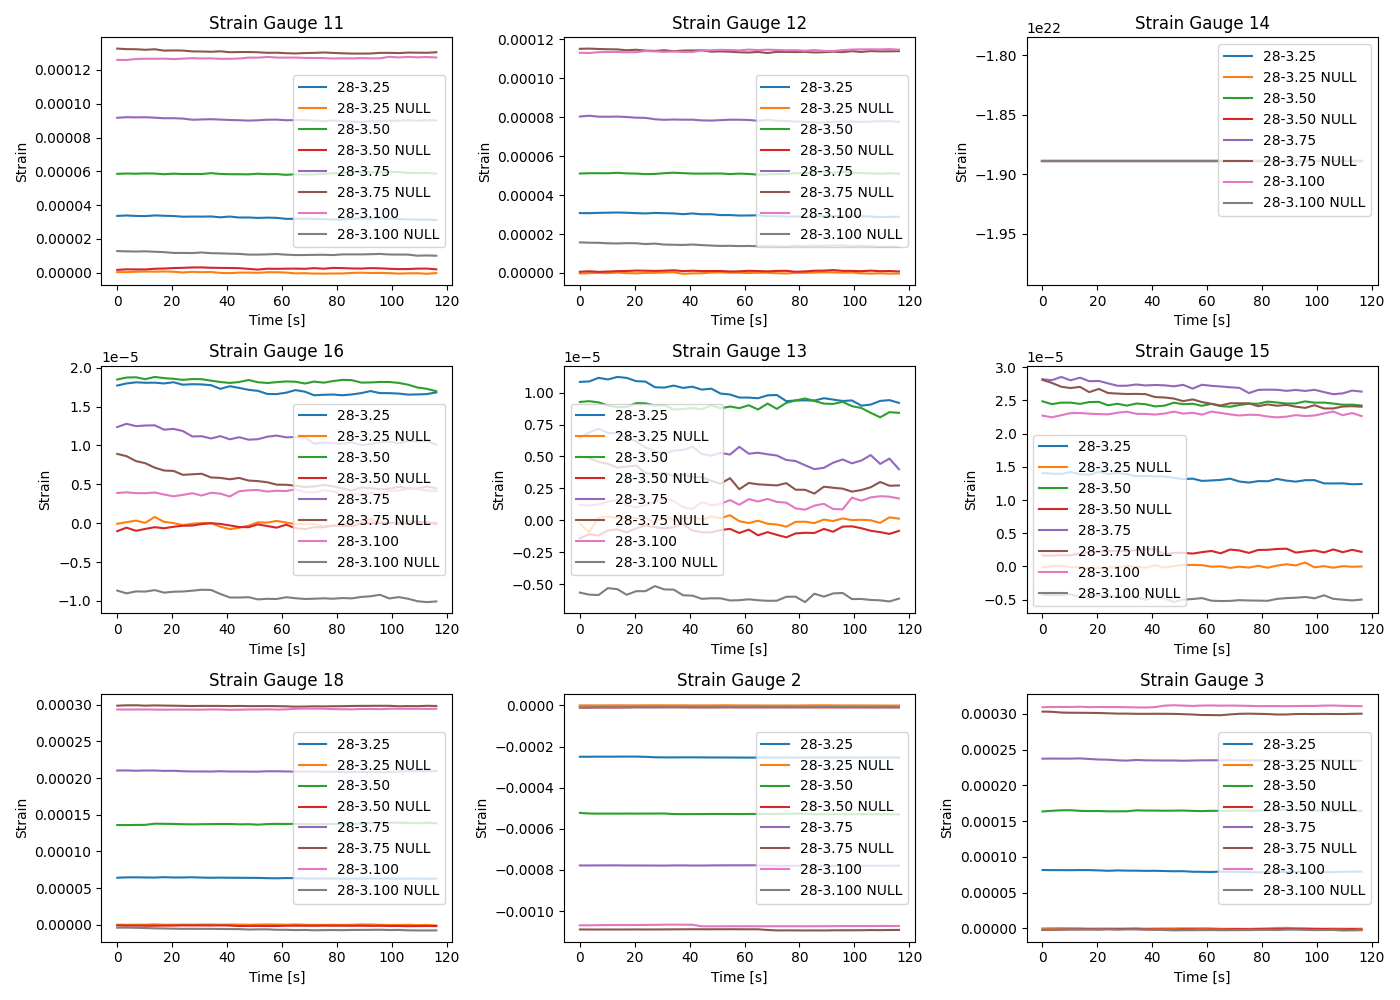
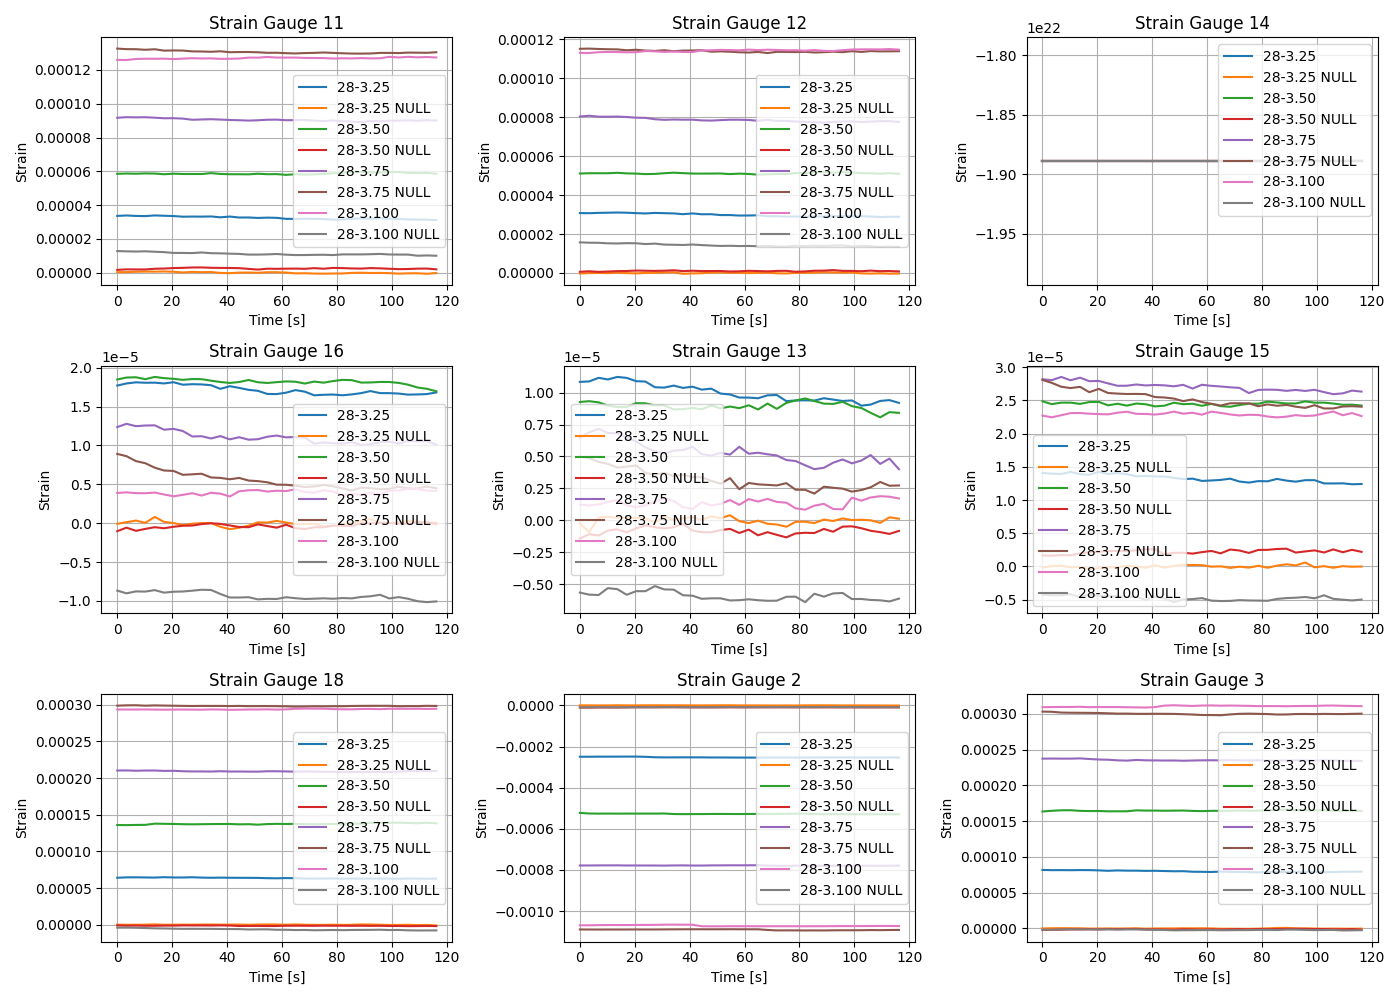
Better plots

diff --git a/AnalyseStrain.py b/AnalyseStrain.py
@@ -35,7 +35,6 @@ def calculateStrain(dataset: dict, test: str):
         measuredStrainData[key] = measuredStrain
     # Correct for initial offset which is the strains in the null test
     realStrainData = {}
-    print(measuredStrainData.keys())
     #nullstrains is the first entry in measuredStrainData with 'NULL' in the key
     nullStrains = measuredStrainData[[key for key in measuredStrainData.keys() if 'NULL' in key][0]]
         
@@ -84,6 +83,9 @@ def makeScatterPlotData(dataset: dict, test: str):
                     ax.set_ylabel("Strain")
                     
                 idx += 1
+                #add grid
+                ax.grid(True)
+
                 plt.tight_layout()
     #add temperature plots
         plt.savefig(f"Strain_Gauge_Plots_Test_{list(dataset.keys())[0]}_{fignum}.png")
@@ -96,6 +98,7 @@ def makeScatterPlotData(dataset: dict, test: str):
     ax.legend()
     ax.set_xlabel("Time [s]")
     ax.set_ylabel("Temperature [°C]")
+    ax.grid(True)
     #Temp_mm
     ax = axes[1]
     for key in dataset.keys():
@@ -105,10 +108,10 @@ def makeScatterPlotData(dataset: dict, test: str):
     ax.set_xlabel("Time [s]")
     ax.set_ylabel("Temperature [°C]")
 
-
+    ax.grid(True)
     plt.tight_layout()
     plt.savefig(f"Temperature_Plots_Test_{list(dataset.keys())[0]}.png")
-    plt.show()
+    # plt.show()
     # #save all figures
     
     
@@ -128,9 +131,8 @@ if __name__ == "__main__":
     DataSetkeys_1 = list(DataSet.keys())[0:9]
     DataSetkeys_2 = list(DataSet.keys())[9:17]
     DataSetkeys_3 = list(DataSet.keys())[17:25]
-    DataSetkeys_4 = list(DataSet.keys())[25:28]
-    DataSetkeys_5 = list(DataSet.keys())[28:]
-    DataSetKeys = [DataSetkeys_1, DataSetkeys_2, DataSetkeys_3, DataSetkeys_4, DataSetkeys_5]
+    DataSetkeys_4 = list(DataSet.keys())[25:]
+    DataSetKeys = [DataSetkeys_1, DataSetkeys_2, DataSetkeys_3, DataSetkeys_4]
     
     for keyset in DataSetKeys:
         current_dataset = {key: DataSet[key] for key in keyset}
